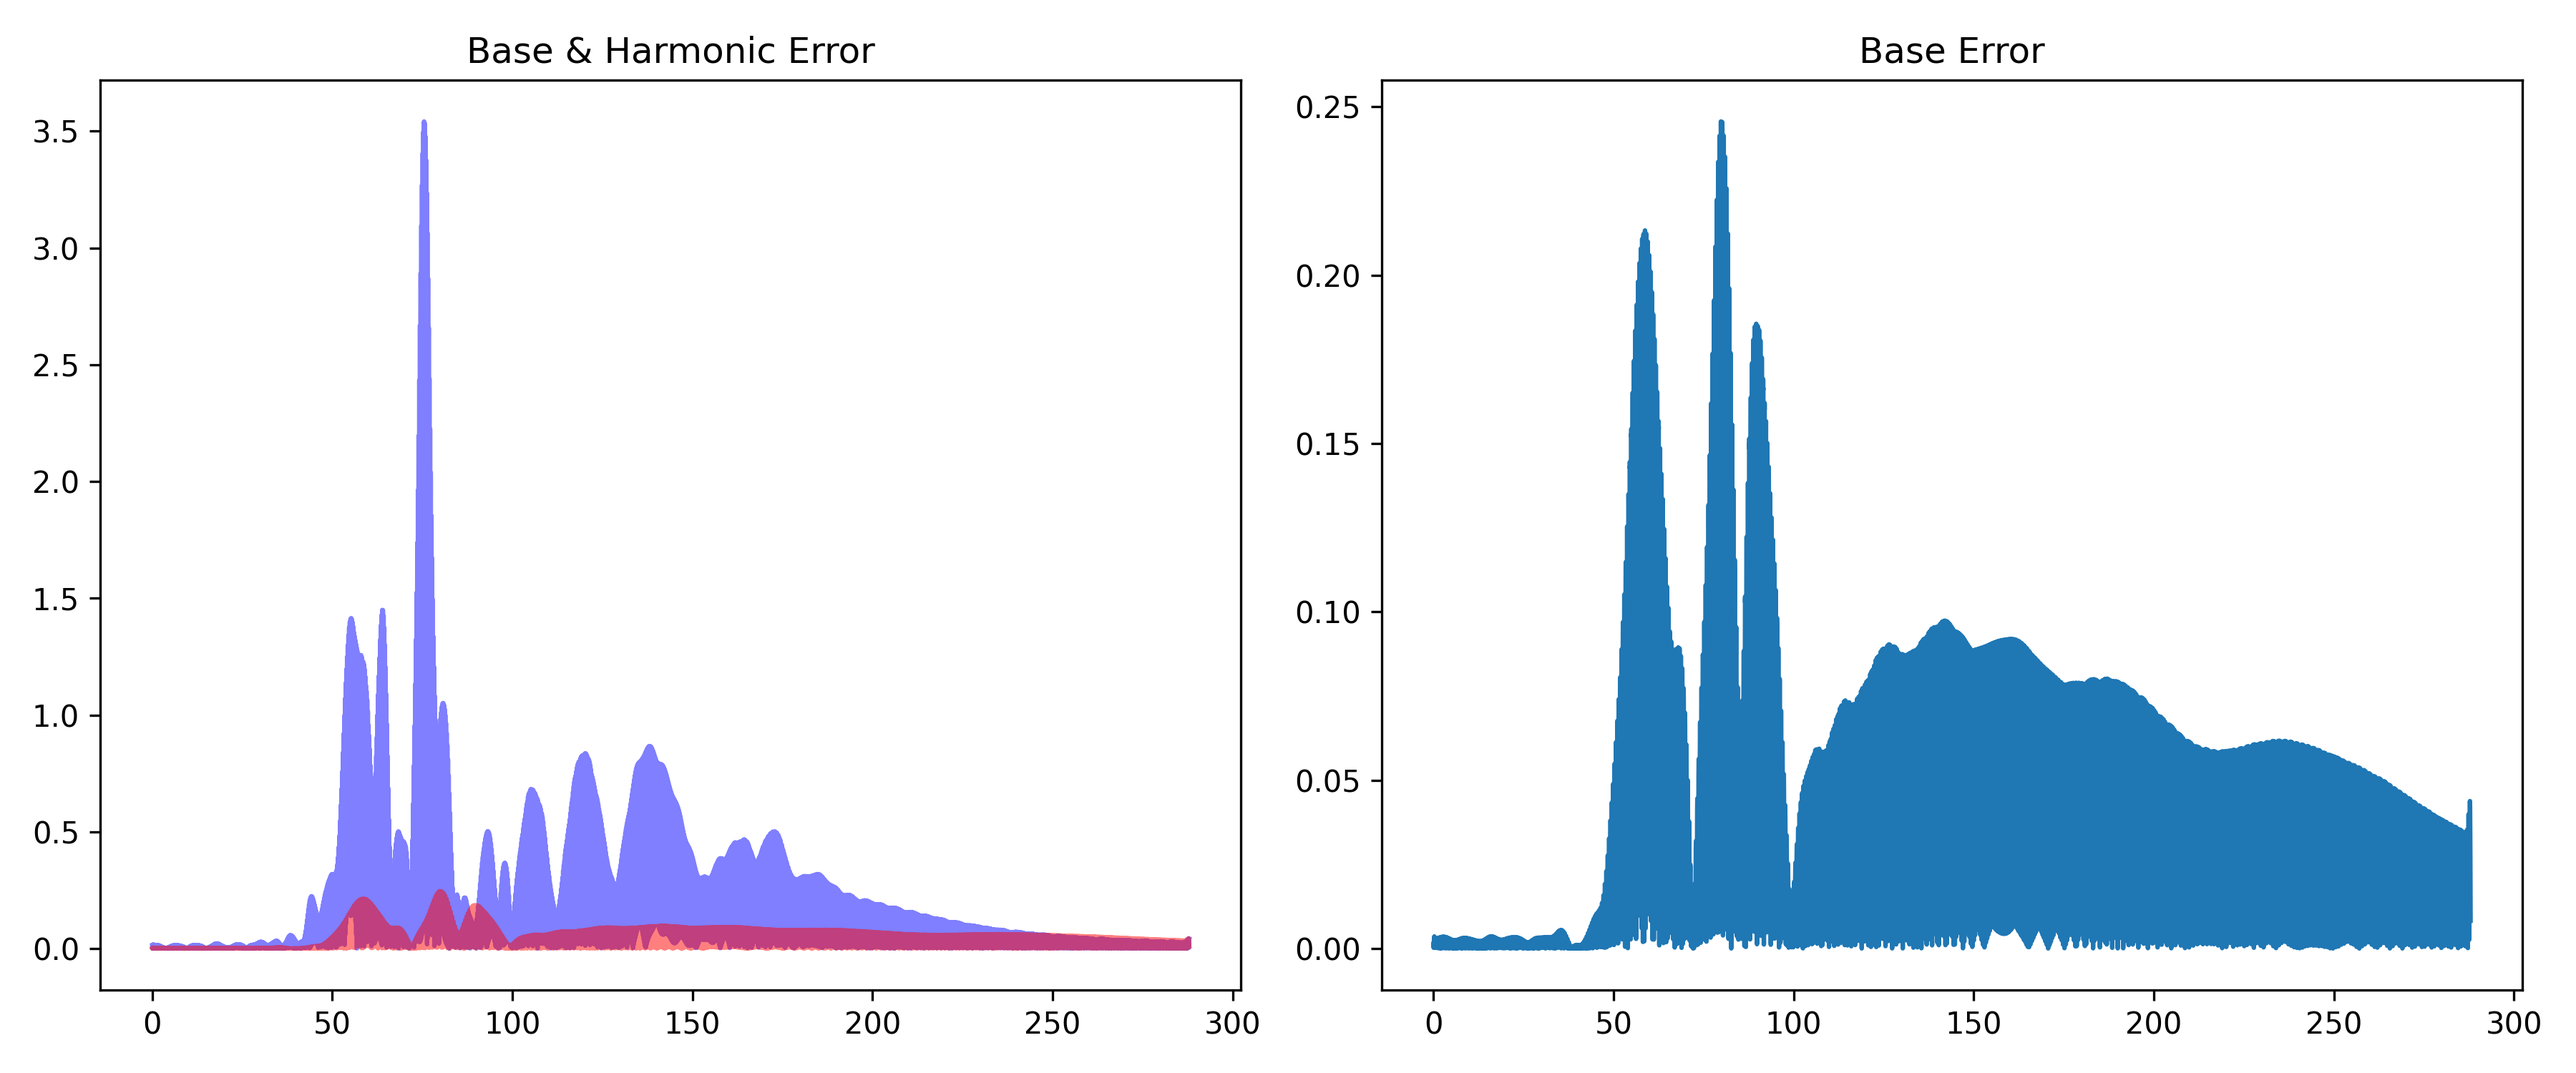
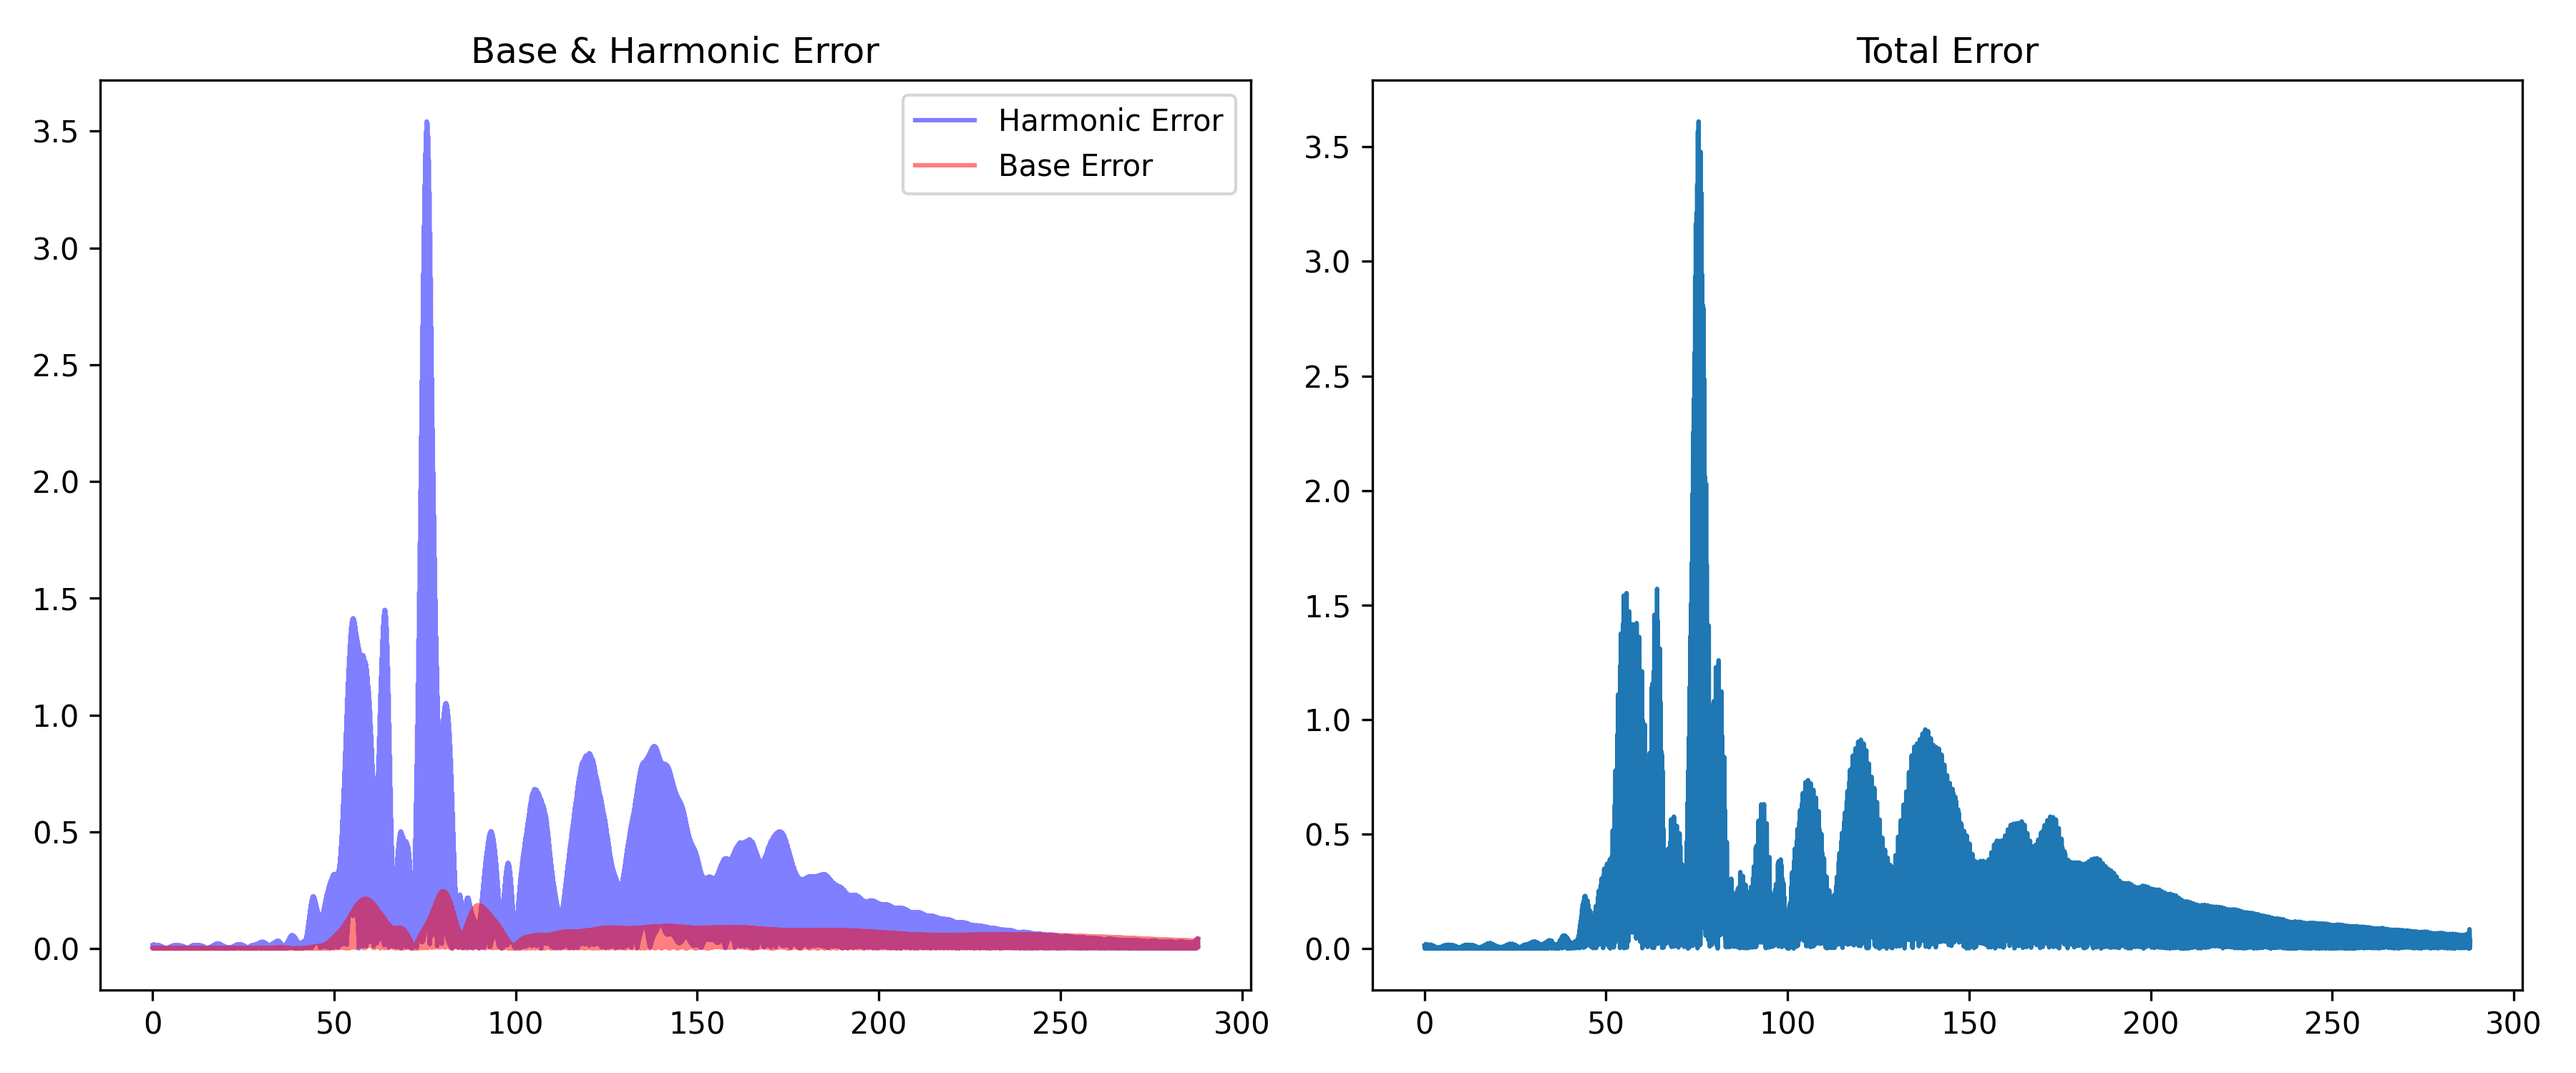
def of stft

diff --git a/hyperparameter_stft.py b/hyperparameter_stft.py
@@ -120,68 +120,62 @@ print(f"    GT harmonic peak: {np.max(np.abs(gt_harmonic)):.4f} nm")
 # ═══════════════════════════════════════════════════════════════════════════
 #  STFT-SST
 # ═══════════════════════════════════════════════════════════════════════════
+def stft_sst(t,signal,f_min_analyse,f_max_analyse,stft_win_len,stft_hop_len,stft_n_fft,stft_gamma,band_min_base,band_max_base,log_scale,gt_base,gt_harmonic):
+    print("\n[2] STFT-SST …")
+    S_orig, S_sst, f_stft, t_stft = SST_v2_processing.stft_sst(
+        t, signal,
+        fmin=f_min_analyse,
+        fmax=f_max_analyse,
+        win_len=stft_win_len,
+        hop_len=stft_hop_len,
+        n_fft=stft_n_fft,
+        gamma=stft_gamma,)
 
-print("\n[2] STFT-SST …")
-S_orig, S_sst, f_stft, t_stft = SST_v2_processing.stft_sst(
-    t, signal,
-    fmin=f_min_analyse,
-    fmax=f_max_analyse,
-    win_len=stft_win_len,
-    hop_len=stft_hop_len,
-    n_fft=stft_n_fft,
-    gamma=stft_gamma,
-)
-print(f"    STFT shape: {S_orig.shape}   SST shape: {S_sst.shape}")
+    # side-by-side spectrogram comparison
+    SST_v2_processing.plot_comparison(
+        t_stft, f_stft,
+        S_orig, S_sst,
+        method="STFT",
+        name="sst_stft_comparison",
+        log_scale=log_scale,
+        fmin=f_min_analyse,
+        fmax=f_max_analyse,)
+    
+    print(f"    STFT shape: {S_orig.shape}   SST shape: {S_sst.shape}")
+    # band reconstructions
+    print("    Reconstructing base band (STFT) …")
+    recon_base_stft = SST_v2_processing.reconstruct_band_stft(
+        t, signal,
+        band_min=band_min_base,
+        band_max=band_max_base,
+        fmin=f_min_analyse,
+        fmax=f_max_analyse,
+        win_len=stft_win_len,
+        hop_len=stft_hop_len,
+        n_fft=stft_n_fft,)
 
-# side-by-side spectrogram comparison
-SST_v2_processing.plot_comparison(
-    t_stft, f_stft,
-    S_orig, S_sst,
-    method="STFT",
-    name="sst_stft_comparison",
-    log_scale=log_scale,
-    fmin=f_min_analyse,
-    fmax=f_max_analyse,
-)
+    print("    Reconstructing harmonic band (STFT) …")
+    recon_harmonic_stft = SST_v2_processing.reconstruct_band_stft(
+        t, signal,
+        band_min=band_min_harmonic,
+        band_max=band_max_harmonic,
+        fmin=f_min_analyse,
+        fmax=f_max_analyse,
+        win_len=stft_win_len,
+        hop_len=stft_hop_len,
+        n_fft=stft_n_fft,)
+    
+    SST_v2_processing.plot_reconstruction(
+        t, signal,
+        recon_base_stft,
+        recon_harmonic_stft,
+        gt_base=gt_base,
+        gt_harmonic=gt_harmonic,
+        method="STFT",
+        name="sst_stft_reconstruction",)
 
-# band reconstructions
-print("    Reconstructing base band (STFT) …")
-recon_base_stft = SST_v2_processing.reconstruct_band_stft(
-    t, signal,
-    band_min=band_min_base,
-    band_max=band_max_base,
-    fmin=f_min_analyse,
-    fmax=f_max_analyse,
-    win_len=stft_win_len,
-    hop_len=stft_hop_len,
-    n_fft=stft_n_fft,
-)
 
-print("    Reconstructing harmonic band (STFT) …")
-recon_harmonic_stft = SST_v2_processing.reconstruct_band_stft(
-    t, signal,
-    band_min=band_min_harmonic,
-    band_max=band_max_harmonic,
-    fmin=f_min_analyse,
-    fmax=f_max_analyse,
-    win_len=stft_win_len,
-    hop_len=stft_hop_len,
-    n_fft=stft_n_fft,
-)
-
-SST_v2_processing.plot_reconstruction(
-    t, signal,
-    recon_base_stft,
-    recon_harmonic_stft,
-    gt_base=gt_base,
-    gt_harmonic=gt_harmonic,
-    method="STFT",
-    name="sst_stft_reconstruction",
-)
-
-# ═══════════════════════════════════════════════════════════════════════════
-#  QUICK SANITY CHECK  — print peak SNR of reconstructions
-# ═══════════════════════════════════════════════════════════════════════════
+    return recon_harmonic_stft,recon_base_stft
 
 def _peak_snr(reference, recon):
     noise = reference - recon
@@ -200,13 +194,20 @@ def get_residuals(r_h,r_b,og_h,og_b):
     ax[0].plot(t,h_error,color="blue",alpha=0.5,label='Harmonic Error')
     ax[0].plot(t,b_error,color='red',alpha=0.5,label='Base Error')
     ax[0].set_title("Base & Harmonic Error")
-    ax[1].plot(t, b_error)
-    ax[1].set_title("Base Error")
+    ax[0].legend()
+    ax[1].plot(t, full_error)
+    ax[1].set_title("Total Error")
 
     plt.tight_layout()
     plt.savefig("plots/abs_errors.png", dpi=300)
     return h_error,b_error,full_error
 
+
+recon_harmonic_stft,recon_base_stft = stft_sst(
+    t,signal,f_min_analyse,f_max_analyse,
+    stft_win_len,stft_hop_len,stft_n_fft,
+    stft_gamma,band_min_base,band_max_base,
+    log_scale,gt_base,gt_harmonic)
 
 harmonic_error, base_error, total_error = get_residuals(
     recon_harmonic_stft,recon_base_stft,gt_harmonic,gt_base)
